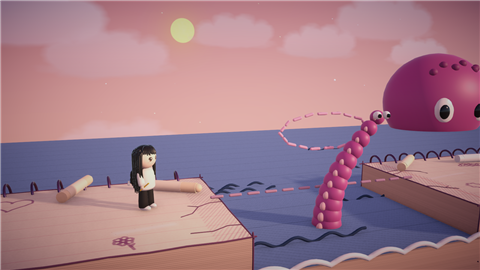
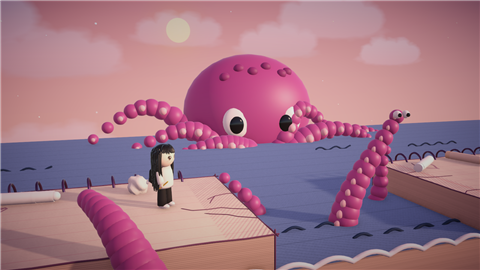
الأخطبوط العملاق: ثمان رجول تتلوى، رجول صغيرة حول كل ذراع، وذراع تطلع من البحر وتنضرب على اليابسة

diff --git a/Assets/Scripts/SeaLevels.cs b/Assets/Scripts/SeaLevels.cs
@@ -14,6 +14,7 @@ public static class SeaFeatures
         foreach (Vector3 j in data.jellies) Jellyfish.Create(root, j, gm);
         foreach (Vector3 t in data.tentacles) Tentacle.Create(root, t, gm);
         foreach (Vector3 w in data.whirlpools) Whirlpool.Create(root, w, gm);
+        foreach (Vector3 l in data.landSlams) LandSlam.Create(root, l, gm);
         foreach (Vector3 s in data.sharks) Shark.Create(root, s, gm);
         if (data.lighthouse.HasValue) Lighthouse.Create(root, data.lighthouse.Value, gm);
         if (data.waitForBridge) GapWait.Create(root, data);
@@ -534,6 +535,7 @@ public class Tentacle : MonoBehaviour
     bool holding;
     int prompted = -1;
     readonly List<Transform> segs = new List<Transform>();
+    readonly List<Transform[]> extraArms = new List<Transform[]>();
     GameObject prey;
     Vector3 preyTarget;
     Material bubbleMat, zMat;
@@ -559,6 +561,14 @@ public class Tentacle : MonoBehaviour
             var s = LevelBuilder.Visual("Segment", PrimitiveType.Sphere, go.transform, Vector3.zero, Vector3.one * (0.3f + 0.55f * k), skin).transform;
             LevelBuilder.Visual("Sucker", PrimitiveType.Sphere, s, new Vector3(-0.35f, 0f, -0.25f), new Vector3(0.35f, 0.35f, 0.2f), sucker, false);
             t.segs.Add(s);
+        }
+        // رجلين صغار حول الذراع تتلوى بالمويه (عشان يبان إن الأخطبوط كله تحت)
+        for (int a = 0; a < 2; a++)
+        {
+            var arm = new Transform[8];
+            for (int i = 0; i < arm.Length; i++)
+                arm[i] = LevelBuilder.Visual("Small Arm", PrimitiveType.Sphere, go.transform, Vector3.zero, Vector3.one * (0.22f + 0.38f * (1f - i / 8f)), skin, false).transform;
+            t.extraArms.Add(arm);
         }
         // عيون صغيرة على طرف الذراع (عشان تبان إنها تطالع وتنتظر)
         Transform tip = t.segs[t.segs.Count - 1];
@@ -681,6 +691,18 @@ public class Tentacle : MonoBehaviour
         }
         if (prey != null) prey.transform.position += (tip - (prey.GetComponent<InkMark>().closed ? prey.transform.position : prey.GetComponent<MeshRenderer>().bounds.center)) * Mathf.Min(1f, Time.deltaTime * 10f);
 
+        for (int a = 0; a < extraArms.Count; a++)
+        {
+            float side = a == 0 ? -1f : 1f;
+            float h = state == State.Sleeping ? 0.4f : 1.6f + Mathf.Sin(t * 1.8f + a * 2f) * 0.5f;
+            for (int i = 0; i < extraArms[a].Length; i++)
+            {
+                float k = i / (float)(extraArms[a].Length - 1);
+                Vector3 p = new Vector3(Cx + side * (1.5f + k * 0.8f) + Mathf.Sin(t * 3f + a + k * 4f) * 0.3f * k, water - 0.7f + k * h, 0.9f);
+                extraArms[a][i].position = p;
+                extraArms[a][i].gameObject.SetActive(p.y > water - 0.5f);
+            }
+        }
         // نايمة: Z تطلع من المويه
         if (state == State.Sleeping && t >= nextZ)
         {
@@ -714,6 +736,7 @@ public class GiantOctopus : MonoBehaviour
 {
     Transform head;
     readonly List<Transform> pupils = new List<Transform>();
+    readonly List<Transform[]> arms = new List<Transform[]>();
 
     public static void Create(Transform root, Vector3 pos, GameManager gm)
     {
@@ -733,12 +756,39 @@ public class GiantOctopus : MonoBehaviour
             LevelBuilder.Visual("Eye", PrimitiveType.Sphere, o.head, new Vector3(s * 0.18f, -0.05f, -0.42f), new Vector3(0.22f, 0.26f, 0.12f), white, false);
             o.pupils.Add(LevelBuilder.Visual("Pupil", PrimitiveType.Sphere, o.head, new Vector3(s * 0.18f, -0.07f, -0.48f), new Vector3(0.1f, 0.14f, 0.06f), black, false).transform);
         }
+        // ثمان رجول تتلوى بالمويه حول الراس
+        Material sucker = gm.Mat("Octopus Sucker", new Color(1f, 0.75f, 0.8f), 0.4f);
+        for (int a = 0; a < 8; a++)
+        {
+            var arm = new Transform[12];
+            for (int i = 0; i < arm.Length; i++)
+            {
+                float k = 1f - i / (float)arm.Length;
+                arm[i] = LevelBuilder.Visual("Arm", PrimitiveType.Sphere, go.transform, Vector3.zero, Vector3.one * (0.35f + 0.9f * k), skin, false).transform;
+                if (i % 2 == 0) LevelBuilder.Visual("Sucker", PrimitiveType.Sphere, arm[i], new Vector3(0f, 0f, -0.45f), Vector3.one * 0.4f, sucker, false);
+            }
+            o.arms.Add(arm);
+        }
     }
 
     void Update()
     {
         float t = Time.time;
         head.localPosition = new Vector3(0f, Mathf.Sin(t * 0.6f) * 0.3f, 0f);
+        // الرجول تطلع من المويه وتتلوى (قوس فوق الماي)
+        float water = SeaWater.Instance != null ? SeaWater.Instance.Level : -0.7f;
+        for (int a = 0; a < arms.Count; a++)
+        {
+            float side = (a - 3.5f) / 3.5f;
+            Transform[] arm = arms[a];
+            for (int i = 0; i < arm.Length; i++)
+            {
+                float k = i / (float)(arm.Length - 1);
+                float lift = Mathf.Sin(k * Mathf.PI) * (1.3f + 0.9f * Mathf.Sin(t * 1.4f + a * 1.3f));
+                float curl = Mathf.Sin(t * 2.2f + a + k * 5f) * 0.45f * k;
+                arm[i].position = new Vector3(transform.position.x + side * (2.2f + k * 6.5f) + curl, water - 0.3f + lift, transform.position.z - 1.2f + Mathf.Cos(a * 1.7f) * 1.2f);
+            }
+        }
         // العيون تطالع رويدا
         GameManager gm = GameManager.Instance;
         if (gm == null || gm.Rowaida == null) return;
@@ -1266,5 +1316,116 @@ public class TideRuler : MonoBehaviour
             LevelBuilder.Visual("Tick", PrimitiveType.Cube, go.transform, new Vector3(-0.17f + (i % 2 == 0 ? 0.05f : 0f), y, -0.05f), new Vector3(i % 2 == 0 ? 0.22f : 0.12f, 0.03f, 0.02f), tick, false);
         }
         LevelBuilder.Visual("Danger", PrimitiveType.Cube, go.transform, new Vector3(0f, dangerY, -0.06f), new Vector3(0.6f, 0.07f, 0.02f), red, false);
+    }
+}
+
+// ذراع أخطبوط تطلع من البحر (قدام) وتنضرب على اليابسة فوق طريق رويدا كل شوي.
+// قبلها فقاعات وصوت. رويدا تستنى لين ترجع الذراع، ولو انضربت عليها ترجعها لورا
+public class LandSlam : MonoBehaviour
+{
+    const float Period = 4.6f, Warn = 1.1f, Rise = 0.45f, Down = 1.1f, Back = 0.5f;
+    float x, phase, start, nextBubble;
+    readonly List<Transform> segs = new List<Transform>();
+    bool holding, slammed;
+    Material bubbleMat;
+
+    float Local => Mathf.Repeat(Time.time - start + phase, Period);
+    // 0 = تحت الماي، 1 = منضربة على الأرض
+    float Reach
+    {
+        get
+        {
+            float l = Local;
+            if (l < Rise) return Mathf.SmoothStep(0f, 0.7f, l / Rise);
+            if (l < Rise + 0.15f) return Mathf.Lerp(0.7f, 1f, (l - Rise) / 0.15f);
+            if (l < Rise + 0.15f + Down) return 1f;
+            if (l < Rise + 0.15f + Down + Back) return 1f - (l - Rise - 0.15f - Down) / Back;
+            return 0f;
+        }
+    }
+    bool Slamming => Local >= Rise && Local < Rise + 0.15f + Down;
+    float UntilSlam => Local < Rise + 0.15f + Down ? 0f : Period - Local;
+
+    public static void Create(Transform root, Vector3 spec, GameManager gm)
+    {
+        var go = new GameObject("Land Slam");
+        go.transform.SetParent(root, false);
+        var s = go.AddComponent<LandSlam>();
+        s.x = spec.x; s.phase = spec.y;
+        s.start = Time.time;
+        Material skin = gm.Mat("Octopus Skin", new Color(0.75f, 0.3f, 0.6f), 0.5f);
+        Material sucker = gm.Mat("Octopus Sucker", new Color(1f, 0.75f, 0.8f), 0.4f);
+        s.bubbleMat = gm.Mat("Air Bubble", new Color(0.8f, 0.95f, 1f), 0.98f);
+        for (int i = 0; i < 18; i++)
+        {
+            float k = 1f - i / 18f;
+            var seg = LevelBuilder.Visual("Segment", PrimitiveType.Sphere, go.transform, Vector3.zero, Vector3.one * (0.3f + 0.6f * k), skin).transform;
+            LevelBuilder.Visual("Sucker", PrimitiveType.Sphere, seg, new Vector3(0f, -0.38f, -0.2f), new Vector3(0.35f, 0.2f, 0.35f), sucker, false);
+            s.segs.Add(seg);
+        }
+    }
+
+    void Update()
+    {
+        GameManager gm = GameManager.Instance;
+        if (gm == null) return;
+        float t = Time.time, reach = Reach;
+        float water = SeaWater.Instance != null ? SeaWater.Instance.Level : -0.7f;
+
+        // الذراع: من البحر قدام (عند الكاميرا) تقوس فوق ونازلة على الطريق
+        Vector3 basePos = new Vector3(x + 0.8f, water - 0.6f, -3.2f);
+        Vector3 tip = new Vector3(x - 1.6f, 0.35f, 0.2f);
+        Vector3 top = Vector3.Lerp(basePos, tip, 0.5f) + Vector3.up * (2.4f + Mathf.Sin(t * 3f) * 0.2f);
+        for (int i = 0; i < segs.Count; i++)
+        {
+            float k = i / (float)(segs.Count - 1) * reach;
+            Vector3 a = Vector3.Lerp(basePos, top, k), b = Vector3.Lerp(top, tip, k);
+            Vector3 p = Vector3.Lerp(a, b, k) + new Vector3(0f, Mathf.Sin(t * 6f + i * 0.6f) * 0.06f * (1f - reach), 0f);
+            segs[i].position = p;
+            segs[i].gameObject.SetActive(reach > 0.02f && p.y > water - 0.4f);
+        }
+
+        // تحذير
+        if (UntilSlam > 0f && UntilSlam < Warn && t >= nextBubble)
+        {
+            nextBubble = t + 0.07f;
+            var b = LevelBuilder.Visual("Bubble", PrimitiveType.Sphere, null, new Vector3(x + Random.Range(-0.5f, 1.5f), water, -2.6f), Vector3.one * Random.Range(0.15f, 0.3f), bubbleMat, false);
+            var fx = b.AddComponent<FxParticle>();
+            fx.velocity = new Vector3(0f, Random.Range(0.8f, 1.6f), 0f);
+            fx.life = 0.5f;
+            if (Random.value < 0.1f) LevelSfx.Play("bubble", 0.4f, Random.Range(0.7f, 1f));
+        }
+        // الضربة
+        if (Slamming && !slammed && reach > 0.95f)
+        {
+            slammed = true;
+            LevelSfx.Play("slap");
+            Fx.Dust(new Vector3(x - 1f, 0.05f, 0f), 0.8f);
+            var cam = Camera.main.GetComponent<CameraFollow>();
+            if (cam != null) cam.Shake(0.12f, 0.25f);
+            // تكسر الخطوط اللي تحتها
+            foreach (InkMark mark in FindObjectsByType<InkMark>(FindObjectsSortMode.None))
+            {
+                var r = mark.GetComponent<MeshRenderer>();
+                if (r != null && r.bounds.max.x > x - 2.3f && r.bounds.min.x < x + 0.6f && r.bounds.min.y < 1.5f) Destroy(mark.gameObject);
+            }
+        }
+        if (!Slamming) slammed = false;
+
+        RowaidaController rw = gm.Rowaida;
+        if (rw == null) return;
+        Vector3 rp = rw.transform.position;
+        // انضربت عليها؟ ترجعها لورا
+        if (Slamming && reach > 0.9f && rp.x > x - 2.5f && rp.x < x + 0.4f && rp.y < 2f && !rw.IsKnocked)
+        {
+            rw.Knockback(-1.4f);
+            LevelSfx.Play("squish");
+        }
+        // تستنى قبل مكان الضربة
+        float cross = 3.4f / rw.walkSpeed;
+        bool before = rp.x > x - 4f && rp.x < x - 2.8f && rp.y > 0.3f;
+        bool wait = before && (Slamming || UntilSlam < cross) && gm.IsPlaying;
+        if (wait) { rw.Held = true; rw.CarryX = 0f; holding = true; }
+        else if (holding) { rw.Held = false; holding = false; }
     }
 }

diff --git a/Assets/Scripts/LevelData.cs b/Assets/Scripts/LevelData.cs
@@ -156,6 +156,7 @@ public class LevelData
     public List<Vector3> vents = new List<Vector3>();       // فتحات فقاعات (x، y، كل كم ثانية)
     public List<Vector3> jellies = new List<Vector3>();     // قناديل بحر (x، y، كم تطلع وتنزل)
     public List<Vector3> tentacles = new List<Vector3>();   // أذرع أخطبوط (من x، لـ x، تأخير)
+    public List<Vector3> landSlams = new List<Vector3>();   // ذراع تنضرب على اليابسة (x، تأخير)
     public List<Vector3> whirlpools = new List<Vector3>();  // دوامات (x، نص القطر اللي تسحب منه)
     public bool boatRide;                                   // المنارة: الشكل المغلق بالبحر يصير قارب يشيل رويدا
     public List<Vector3> sharks = new List<Vector3>();      // قروش (من x، لـ x)
@@ -600,6 +601,8 @@ public static class Levels
                 Page(22f, 30f),
                 Page(35f, 46f),
             },
+            // ذراع تنضرب على اليابسة (x، تأخير)
+            landSlams = { new Vector3(14.5f, 0f, 0f), new Vector3(27.5f, 2f, 0f) },
             tentacles =
             {
                 new Vector3(4f, 9f, 0f),
